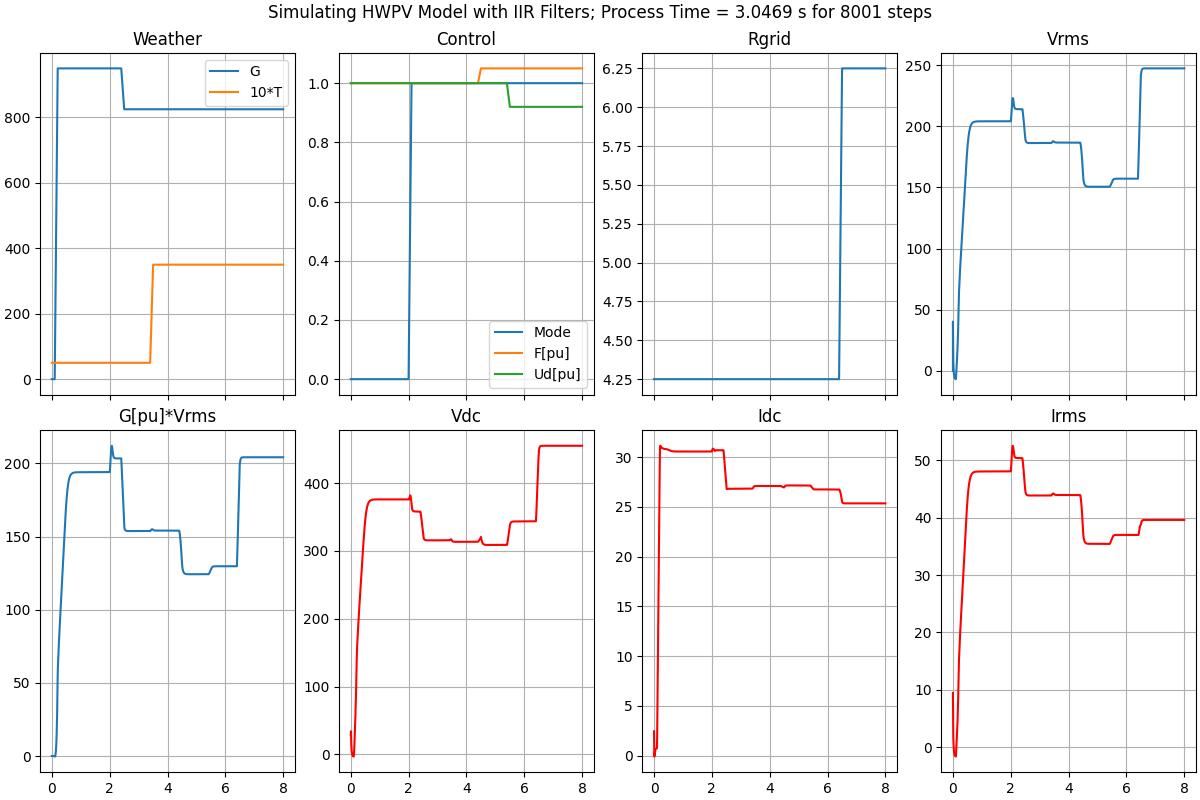
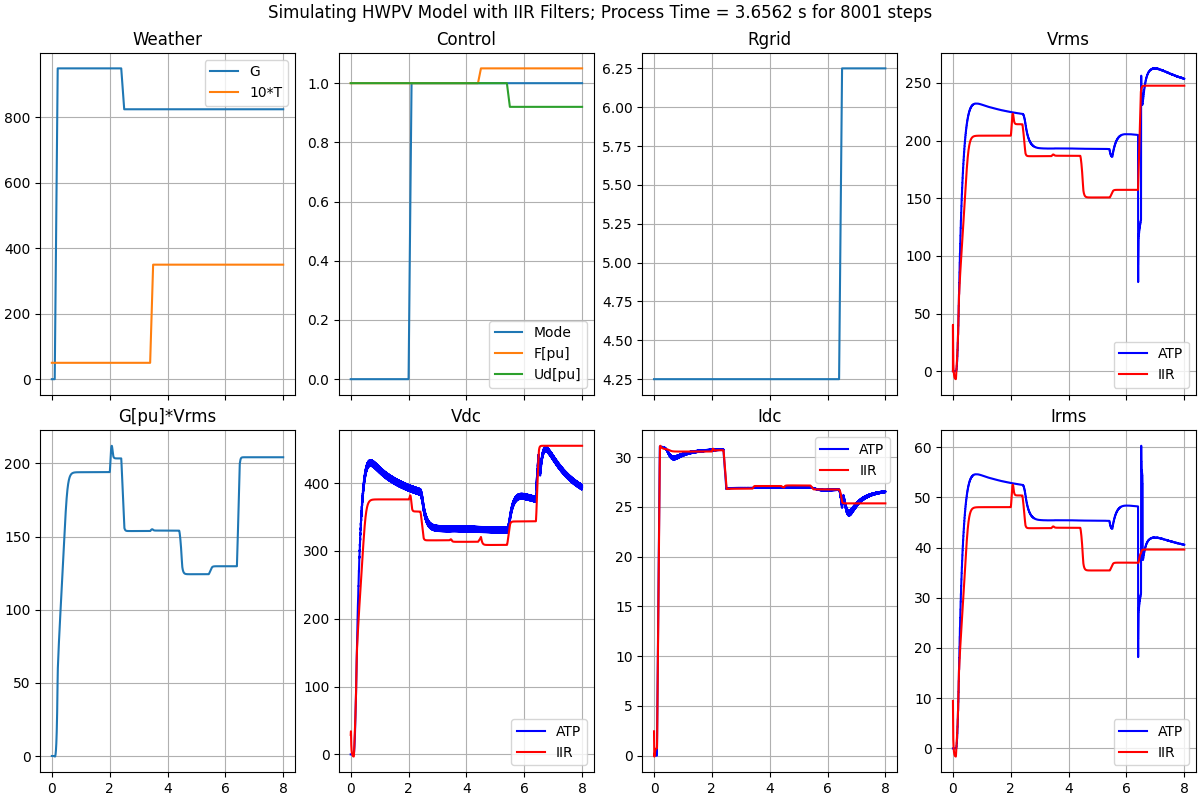
comparing to ATP simulation

diff --git a/examples/hwpv/pv1_import.py b/examples/hwpv/pv1_import.py
@@ -5,11 +5,15 @@ import matplotlib.pyplot as plt
 import control
 import pv1_poly as pv1_model
 import time
+import h5py
+import dynonet.metrics
 
 model_folder = r'./models'
 
 Tmax = 8.000
 dt = 0.001
+
+do_atp = True
 
 # testing data
 aCTL=np.array([[  0.0,  0.0],
@@ -122,6 +126,34 @@ if __name__ == '__main__':
   t1 = time.process_time()
   print ('Simulation elapsed time = {:.4f} seconds.'.format (t1-t0))
 
+  if do_atp:
+    h5file = 'c:/src/atptools/pv1_iir.hdf5'
+    print ('reading ATP data from', h5file)
+    with h5py.File(h5file, 'r') as f:
+      for grp_name, grp in f.items():
+        dlen = grp['t'].len()
+        print (grp_name, 'has', dlen, 'points')
+        atp_t = np.zeros(dlen)
+        atp_vdc = np.zeros(dlen)
+        atp_idc = np.zeros(dlen)
+        atp_irms = np.zeros(dlen)
+        atp_vrms = np.zeros(dlen)
+        grp['t'].read_direct (atp_t)
+        grp['Vdc'].read_direct (atp_vdc)
+        grp['Idc'].read_direct (atp_idc)
+        grp['Irms'].read_direct (atp_irms)
+        grp['Vrms'].read_direct (atp_vrms)
+        print (atp_vdc.shape[::5], plt_vdc.shape)
+        rmse_vdc = dynonet.metrics.error_rmse(atp_vdc[::5], plt_vdc)
+        rmse_idc = dynonet.metrics.error_rmse(atp_idc[::5], plt_idc)
+        rmse_irms = dynonet.metrics.error_rmse(atp_irms[::5], plt_irms)
+        mean_vdc = np.mean(atp_vdc[::5])
+        mean_idc = np.mean(atp_idc[::5])
+        mean_irms = np.mean(atp_irms[::5])
+        print ('Vdc  RMSE={:.4f} Mean={:.4f} Rel={:4.2f}%'.format(rmse_vdc, mean_vdc, 100.0*rmse_vdc/mean_vdc))
+        print ('Idc  RMSE={:.4f} Mean={:.4f} Rel={:4.2f}%'.format(rmse_idc, mean_idc, 100.0*rmse_idc/mean_idc))
+        print ('Irms RMSE={:.4f} Mean={:.4f} Rel={:4.2f}%'.format(rmse_irms, mean_irms, 100.0*rmse_irms/mean_irms))
+
   fig, ax = plt.subplots (2, 4, sharex = 'col', figsize=(12,8), constrained_layout=True)
   fig.suptitle ('Simulating HWPV Model with IIR Filters; Process Time = {:.4f} s for {:d} steps'.format(t1-t0, npts))
   ax[0,0].set_title ('Weather')
@@ -136,15 +168,32 @@ if __name__ == '__main__':
   ax[0,2].set_title ('Rgrid')
   ax[0,2].plot (plt_t, plt_rg)
   ax[0,3].set_title ('Vrms')
-  ax[0,3].plot (plt_t, plt_vrms)
+  if do_atp:
+    ax[0,3].plot (atp_t, atp_vrms, 'b', label='ATP')
+    ax[0,3].plot (plt_t, plt_vrms, 'r', label='IIR')
+    ax[0,3].legend(loc='best')
+  else:
+    ax[0,3].plot (plt_t, plt_vrms)
   ax[1,0].set_title ('G[pu]*Vrms')
   ax[1,0].plot (plt_t, plt_gvrms)
+
   ax[1,1].set_title ('Vdc')
-  ax[1,1].plot (plt_t, plt_vdc, 'r')
+  if do_atp:
+    ax[1,1].plot (atp_t, atp_vdc, 'b', label='ATP')
+  ax[1,1].plot (plt_t, plt_vdc, 'r', label='IIR')
+  ax[1,1].legend(loc='best')
+
   ax[1,2].set_title ('Idc')
-  ax[1,2].plot (plt_t, plt_idc, 'r')
+  if do_atp:
+    ax[1,2].plot (atp_t, atp_idc, 'b', label='ATP')
+  ax[1,2].plot (plt_t, plt_idc, 'r', label='IIR')
+  ax[1,2].legend(loc='best')
+
   ax[1,3].set_title ('Irms')
-  ax[1,3].plot (plt_t, plt_irms, 'r')
+  if do_atp:
+    ax[1,3].plot (atp_t, atp_irms, 'b', label='ATP')
+  ax[1,3].plot (plt_t, plt_irms, 'r', label='IIR')
+  ax[1,3].legend(loc='best')
   for row in range(2):
     for col in range(4):
       ax[row,col].grid()

diff --git a/README.md b/README.md
@@ -43,6 +43,28 @@ To run this example:
 
 **Bode Plots of the MIMO H1 Transfer Function**
 
+The figure below shows an 8-second simulation of inverter startup, followed
+by sequential disturbances in the weather, control variables, and grid resistance.
+Inputs appear on the top row. The AC RMS voltage, Vrms, comes from an electrical
+simulation in the Alternative Transients Program (ATP). In the infinite impulse
+response (IIR) simulation from the trained model, Vrms is not available directly,
+but assumed to be Rgrid*Irms, where Rgrid is pre-defined for the IIR simulation
+and Irms is an IIR output variable. Hence, there is a lag of one time step, 1 ms,
+in Vrms during the IIR simulation. Differences in the ATP and IIR Vrms are partly
+responsible for differences in the ATP and IIR output variables, Vdc, Idc, and Irms.
+
+| Variable | RMSE  |  Mean  |  Rel. Error |
+|:---      |   ---:|    ---:|         ---:|
+|Vdc  | 33.1230 | 365.5493 | 9.06%| 
+|Idc  | 0.4016  | 27.1984  | 1.48%| 
+|Irms | 6.3669  | 45.4824  | 14.00%|
+ 
+Notes to investigate:
+
+- The output variables do not start at zero output. Bias terms in F1 and F2 may cause this, regardless of any zeroed initial conditions on H1, or adjustments to the normalization factors. A back-initialization may fix the problem.
+- There is a change in control mode from "startup" to "grid formed" between 2.0 and 2.1 seconds. This disturbs the output before the first actual disturbance, in G, from 2.4 to 2.5 seconds.
+- The entire simulation could be repeated with control mode constant at 0, and again wiht control model constant at 1.
+
 ![IIR_Sim](/examples/hwpv/IIR_Filter_Simulation.png)
 
 **System Simulation Using Infinite Impulse Response Filters in Discrete Time Steps**
@@ -52,7 +74,7 @@ To run this example:
 The Python files currently used in this example are:
 
 - _pv1_poly.py_ implements a multi-channel Hammerstein-Wiener architecture.
-- _pv1_import.py_ reads the model for time-step simulation, and produces Bode plots
+- _pv1_import.py_ reads the model for time-step simulation, produces Bode plots, and compares IIR simulation to ATP simulation
 
 A sample trained model is provided in _models/pv1_fhf_poly.json_, which contains the following in a readable text format.
 
